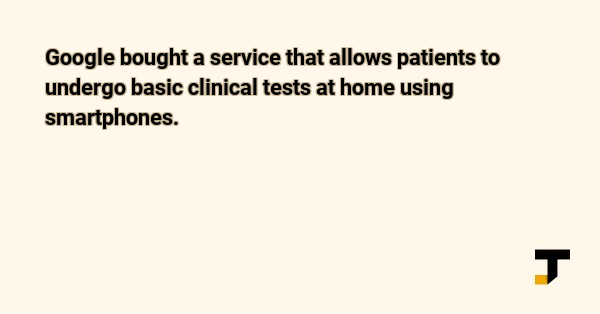
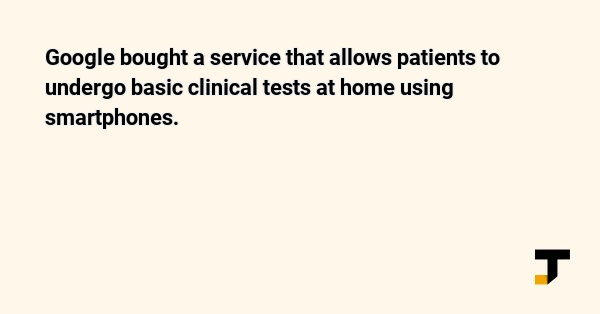
Made results generated by examples look more attractive

Changed region(s): [[0.06, 0.1433, 0.84, 0.3153], [0.06, 0.3439, 0.3, 0.4013]]

diff --git a/examples/example3/script.py b/examples/example3/script.py
@@ -12,26 +12,27 @@ from PIL import ImageFilter
 # TODO: change this fontpath to the fontpath on your machine
 roboto_font_folder = '/home/ovd/.local/share/fonts/Roboto/'
 
-text_outline = Outline(2, '#121212')
+text_outline = Outline(2, '#111')
 
 header = Header(text='The first solar eclipse to cross America in 99 years is coming. To some, it’s an act of God.',
-                font=Font(roboto_font_folder + 'Roboto-Bold.ttf', 33),
-                text_width=40,
+                font=Font(roboto_font_folder + 'Roboto-Bold.ttf', 28),
+                text_width=53,
+                line_padding=3,
                 align='left',
                 color='#ededed',
                 outline=text_outline,
                 )
 
 para = Paragraph(text='Tens of millions of people are expected to cram into a narrow path, from Oregon to the Carolinas, to see the remarkable event.',
-                 font=Font(roboto_font_folder + 'Roboto-Medium.ttf', 29),
-                 text_width=50,
+                 font=Font(roboto_font_folder + 'Roboto-Medium.ttf', 25),
+                 text_width=60,
                  align='left',
                  color='#ededed',
                  outline=text_outline,
                  )
 
 linkback = Linkback(text='@washingtonpost',
-                    font=Font(roboto_font_folder + 'Roboto-Bold.ttf', 20),
+                    font=Font(roboto_font_folder + 'Roboto-Bold.ttf', 17),
                     color='#ededed',
                     outline=text_outline,
                     )

diff --git a/examples/example2/script.py b/examples/example2/script.py
@@ -9,7 +9,7 @@ from nider.models import Image
 # TODO: change this fontpath to the fontpath on your machine
 roboto_font_folder = '/home/ovd/.local/share/fonts/Roboto/'
 
-text_outline = Outline(1, '#cdbb9f')
+text_outline = Outline(1, '#efefef')
 
 header = Header(text='Google bought a service that allows patients to undergo basic clinical tests at home using smartphones.',
                 font=Font(roboto_font_folder + 'Roboto-Bold.ttf', 22),
